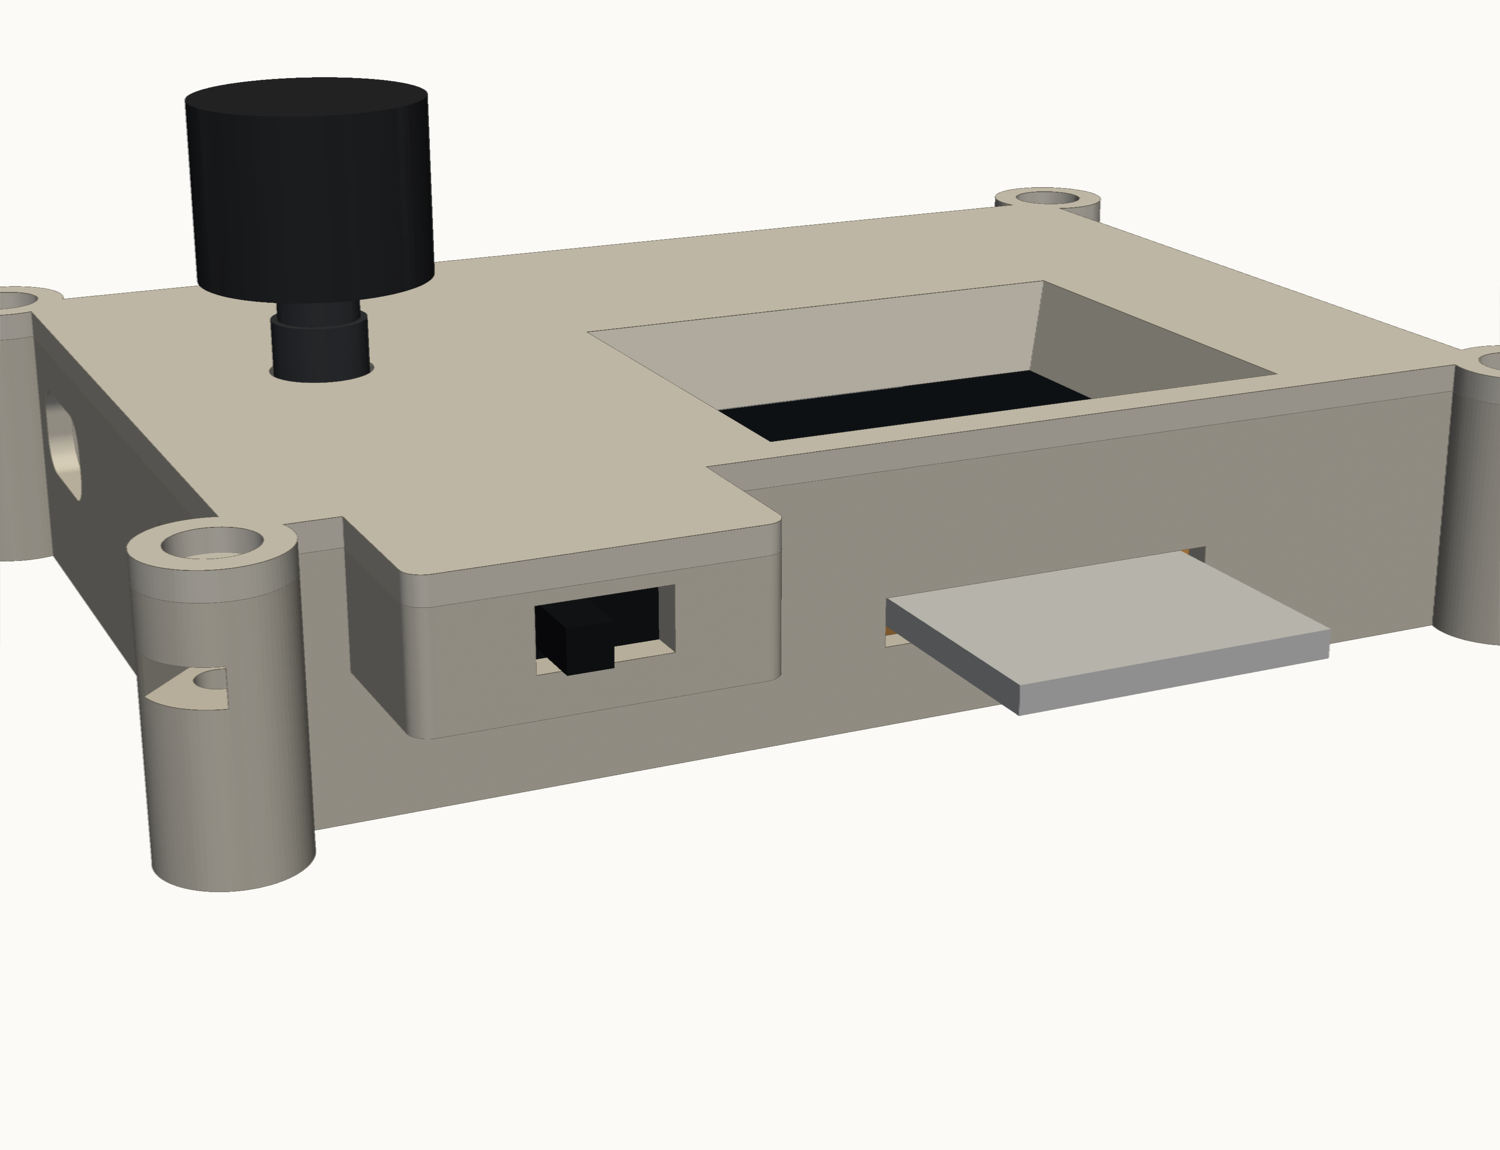
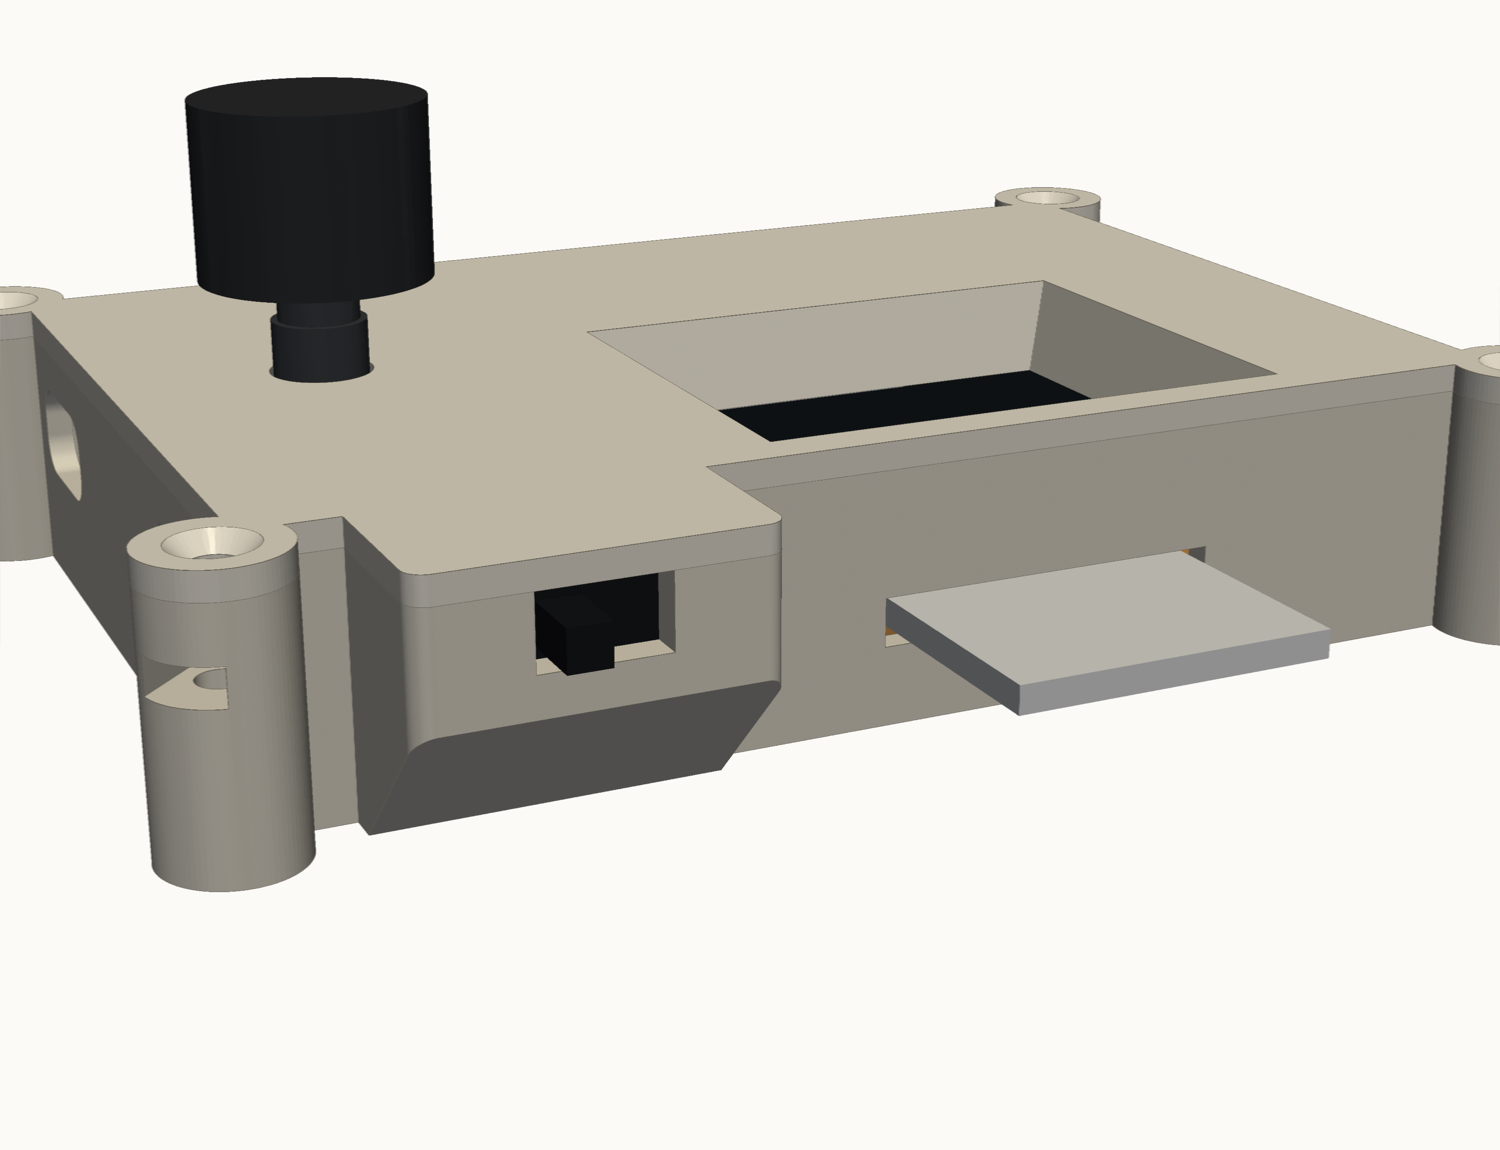
Case concept: print without supports (sloped pod underside, open slider slot, jack roof, countersunk lid screws)

diff --git a/hardware/case/paata_case.py b/hardware/case/paata_case.py
@@ -86,15 +86,17 @@ def base():
     b = Pos(0, 0, -FLOOR) * extrude(outline(), FLOOR + ZTOP)
     zb = ZTOP - POCKET_H - POD_FLOOR                                      # underside of the pod
     b += Pos(0, 0, zb) * extrude(pod_footprint(), ZTOP - zb)
-    gusset = extrude(Plane.XZ.offset(-POD_Y1) * Polygon((xo - 0.5, zb), (xo + POD_OUT, zb), (xo - 0.5, zb - POD_OUT - 0.5), align=None),
+    gusset = extrude(Plane.XZ.offset(-POD_Y0) * Polygon((xo - 0.5, zb + 1), (xo + POD_OUT + 1, zb + 1), (xo - 0.5, zb - POD_OUT - 0.5), align=None),
                      POD_Y1 - POD_Y0)                                     # 45 degree underside, prints without support
-    b += gusset & B(xo - 1, xo + POD_OUT + 1, POD_Y0, POD_Y1, -FLOOR, zb + 1)
+    b += gusset & (Pos(0, 0, -FLOOR) * extrude(pod_footprint(), zb + 1 + FLOOR))
     b -= B(X0, X1, Y0, Y1, 0, ZTOP + 1)                                   # board cavity
     b -= B(X1 - 1, xo + POCKET_D, SW_Y - POCKET_L / 2, SW_Y + POCKET_L / 2, ZTOP - POCKET_H, ZTOP + 1)   # switch pocket, open at the top and into the cavity
-    b -= B(xo + POCKET_D - 1, xo + POD_OUT + 1, SW_Y - 4.5, SW_Y + 4.5, SW_Z - 2.2, SW_Z + 2.2)          # slider slot
+    b -= B(xo + POCKET_D - 1, xo + POD_OUT + 1, SW_Y - 4.5, SW_Y + 4.5, SW_Z - 2.2, ZTOP + 1)            # slider slot, open at the top: no bridge, and the slider drops in
     for dy in (-8, 8):                                                    # pilot holes for the ear screws
         b -= Pos(xo + POCKET_D, SW_Y + dy, SW_Z) * Rot(0, 90, 0) * Cylinder(0.85, 4)
-    b -= Pos(JACK_X, Y1 + WALL / 2, JACK_Z) * Rot(90, 0, 0) * Cylinder(3.6, WALL + 2)          # headphone jack
+    r, k = 3.6, 3.6 * 0.7071                                              # headphone jack: round hole with a 45 degree roof
+    jack = Pos(JACK_X, JACK_Z) * (Circle(r) + Polygon((-k, k), (k, k), (0.9, 2 * k - 0.9), (-0.9, 2 * k - 0.9), align=None))
+    b -= extrude(Plane.XZ.offset(-(Y1 - 1)) * jack, WALL + 2)
     for x in (USB_ESP_X, USB_CHG_X):                                      # USB-C openings, sized for the plug shell
         b -= Pos(x, Y0 - WALL / 2, USB_Z) * Rot(90, 0, 0) * extrude(RectangleRounded(12.5, 6.8, 2.5), WALL + 2, both=True)
     b -= B(X1 - 1, xo + 1, SD_Y0 - 1, SD_Y1 + 1, SD_Z - 1.8, SD_Z + 1.8)  # SD card slot
@@ -119,7 +121,7 @@ def lid():
     l -= Pos(ENC_X, ENC_Y, ZTOP + LID / 2) * Cylinder(3.8, LID + 2)       # encoder bush
     for x, y in lugs():
         l -= Pos(x, y, ZTOP + LID / 2) * Cylinder(1.7, LID + 2)
-        l -= Pos(x, y, ZTOP + LID - 0.8) * Cylinder(3.0, 1.7)             # screw head recess
+        l -= Pos(x, y, ZTOP + LID - 0.6) * Cone(1.7, 3.1, 1.4)            # 90 degree countersink for a flat-head M3; prints face down without support
     return l
 
 
@@ -192,7 +194,7 @@ def render():
 
 if __name__ == "__main__":
     export_stl(base(), str(OUT / "base.stl"), tolerance=0.02)
-    export_stl(lid(), str(OUT / "lid.stl"), tolerance=0.02)
+    export_stl(Rot(180, 0, 0) * lid(), str(OUT / "lid.stl"), tolerance=0.02)      # print orientation: outside face on the bed
     bb, lb = base().bounding_box(), lid().bounding_box()
     print("base", [round(v, 1) for v in (bb.size.X, bb.size.Y, bb.size.Z)], "lid", [round(v, 1) for v in (lb.size.X, lb.size.Y, lb.size.Z)])
     render()

diff --git a/.claude/CLAUDE.md b/.claude/CLAUDE.md
@@ -149,6 +149,11 @@ Board is built and wired (2026-11-15). Owner's caliper readings of the finished 
   ears screwed to the pod's outer wall. About
   83 × 108 × 20.5 mm over lugs and pod. Port, window and knob positions are estimates
   from photos; no board supports yet. Not printable until those are measured.
+  Support-free printing (2026-11-15): base prints floor down, lid prints outside face down
+  (`lid.stl` is exported in that orientation). Pod underside is a real 45° slope (it was
+  missing from the model before), slider slot is open to the top, jack hole has a 45°
+  roof, lid screw recesses are 90° countersinks, so the lid screws are flat-head M3 × 10.
+  What is left are bridges: nut slots 5.7 mm, USB-C openings 7.5 mm, SD slot 26 mm.
 
 ## Library / NAS conventions
 - Master library on TrueNAS share `storage/Music`, layout
